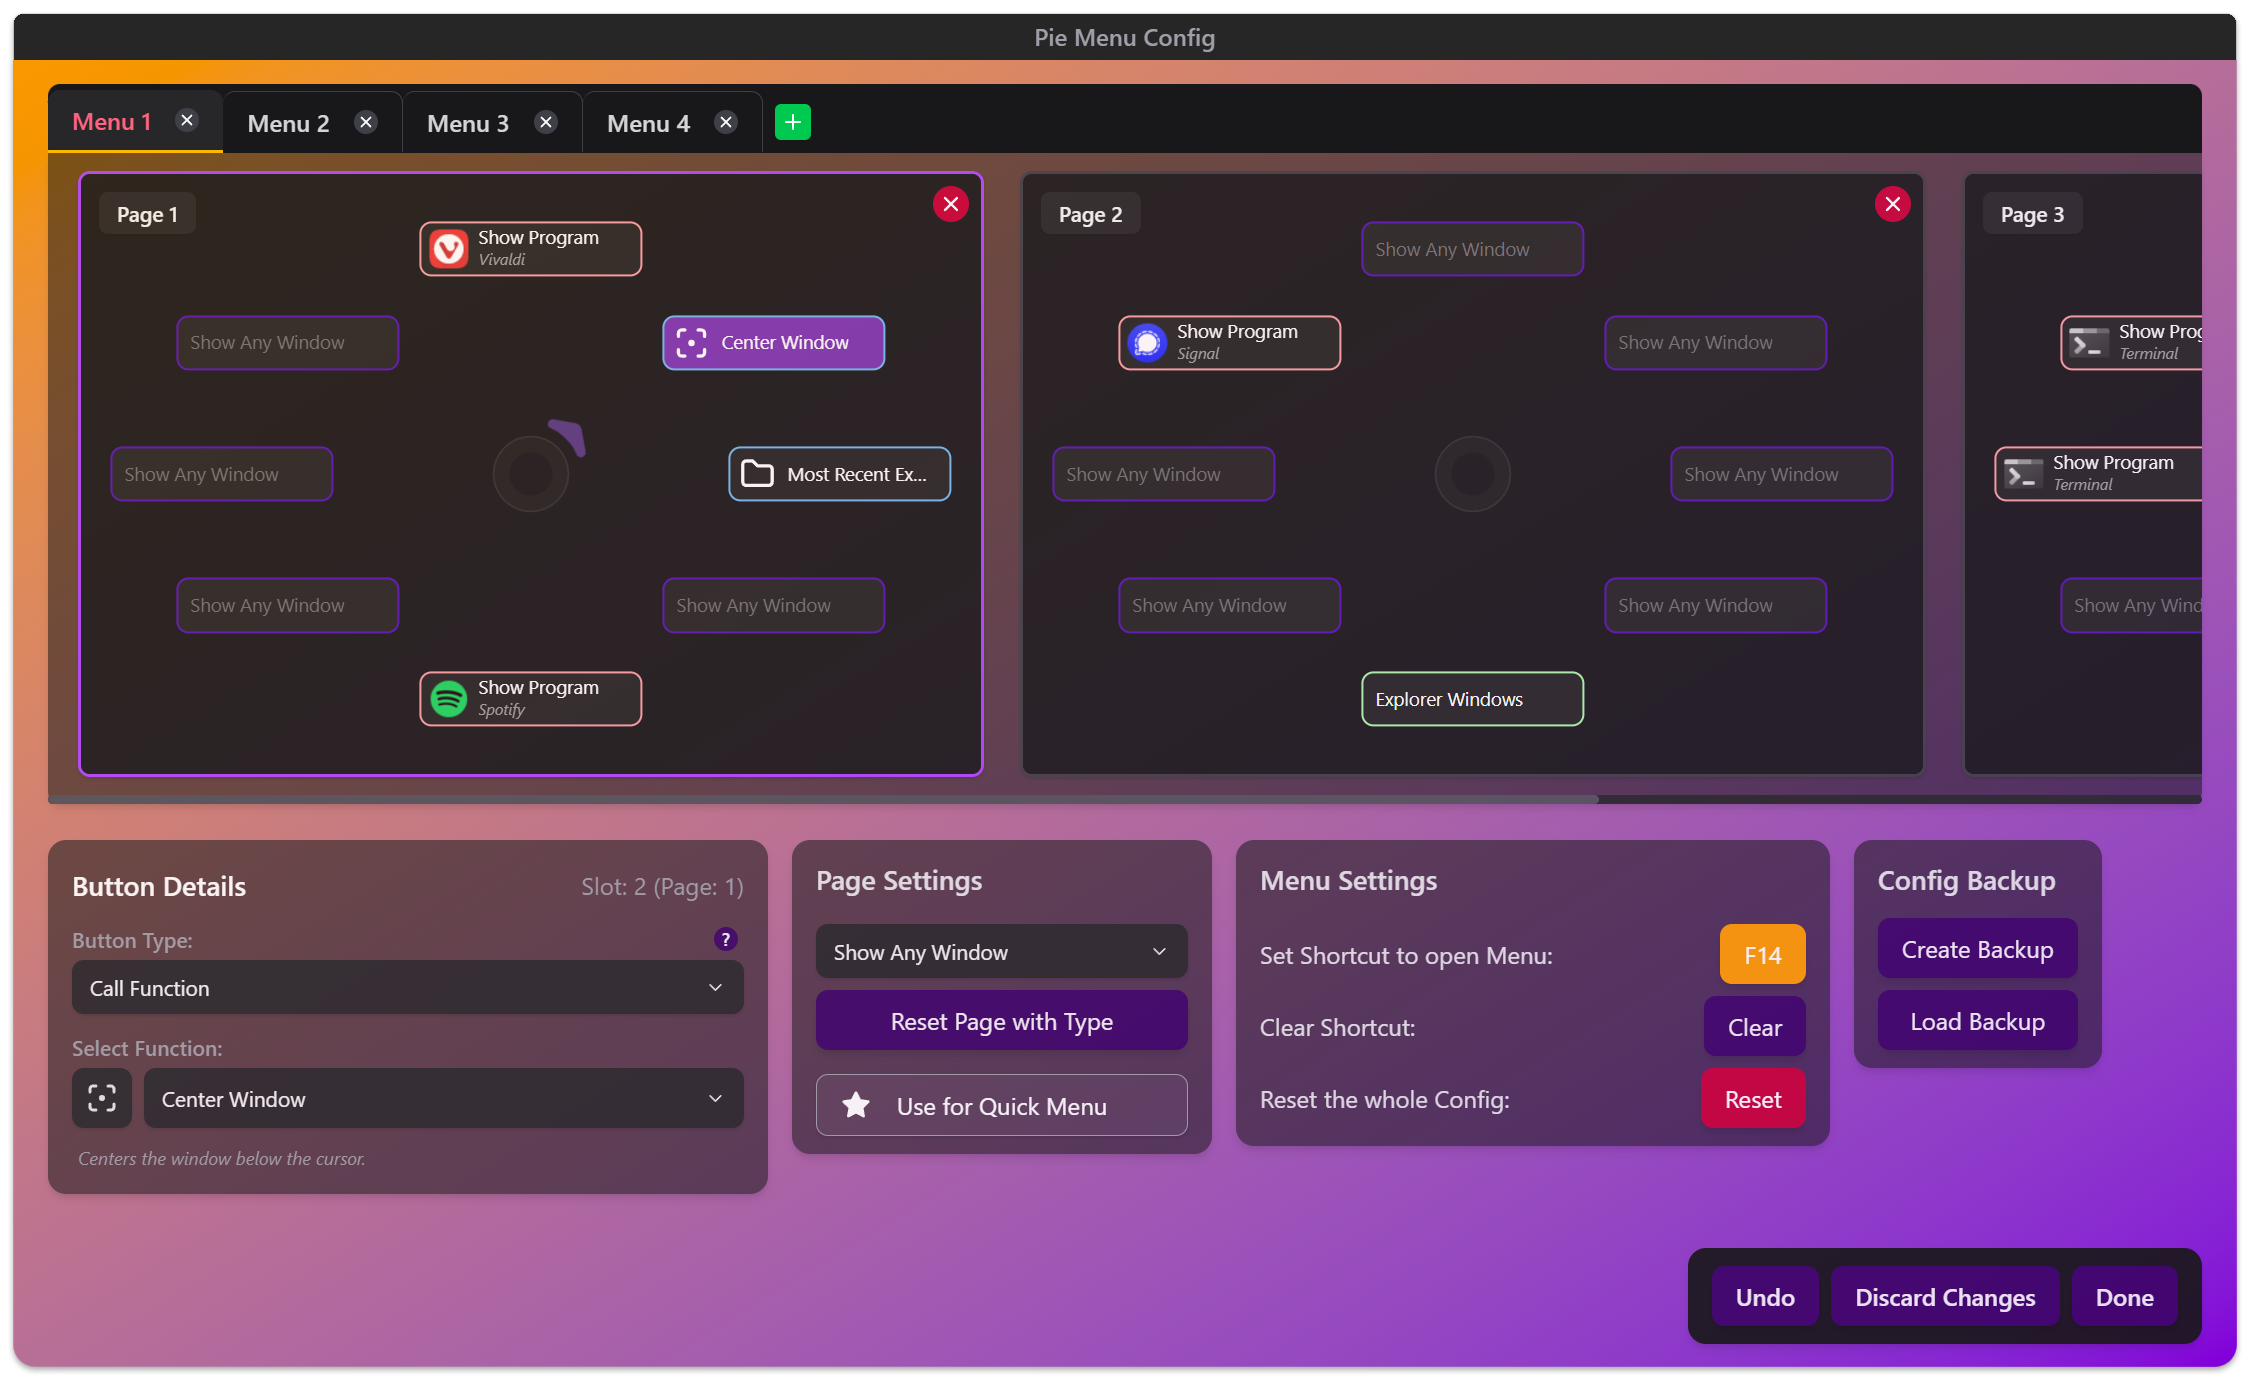
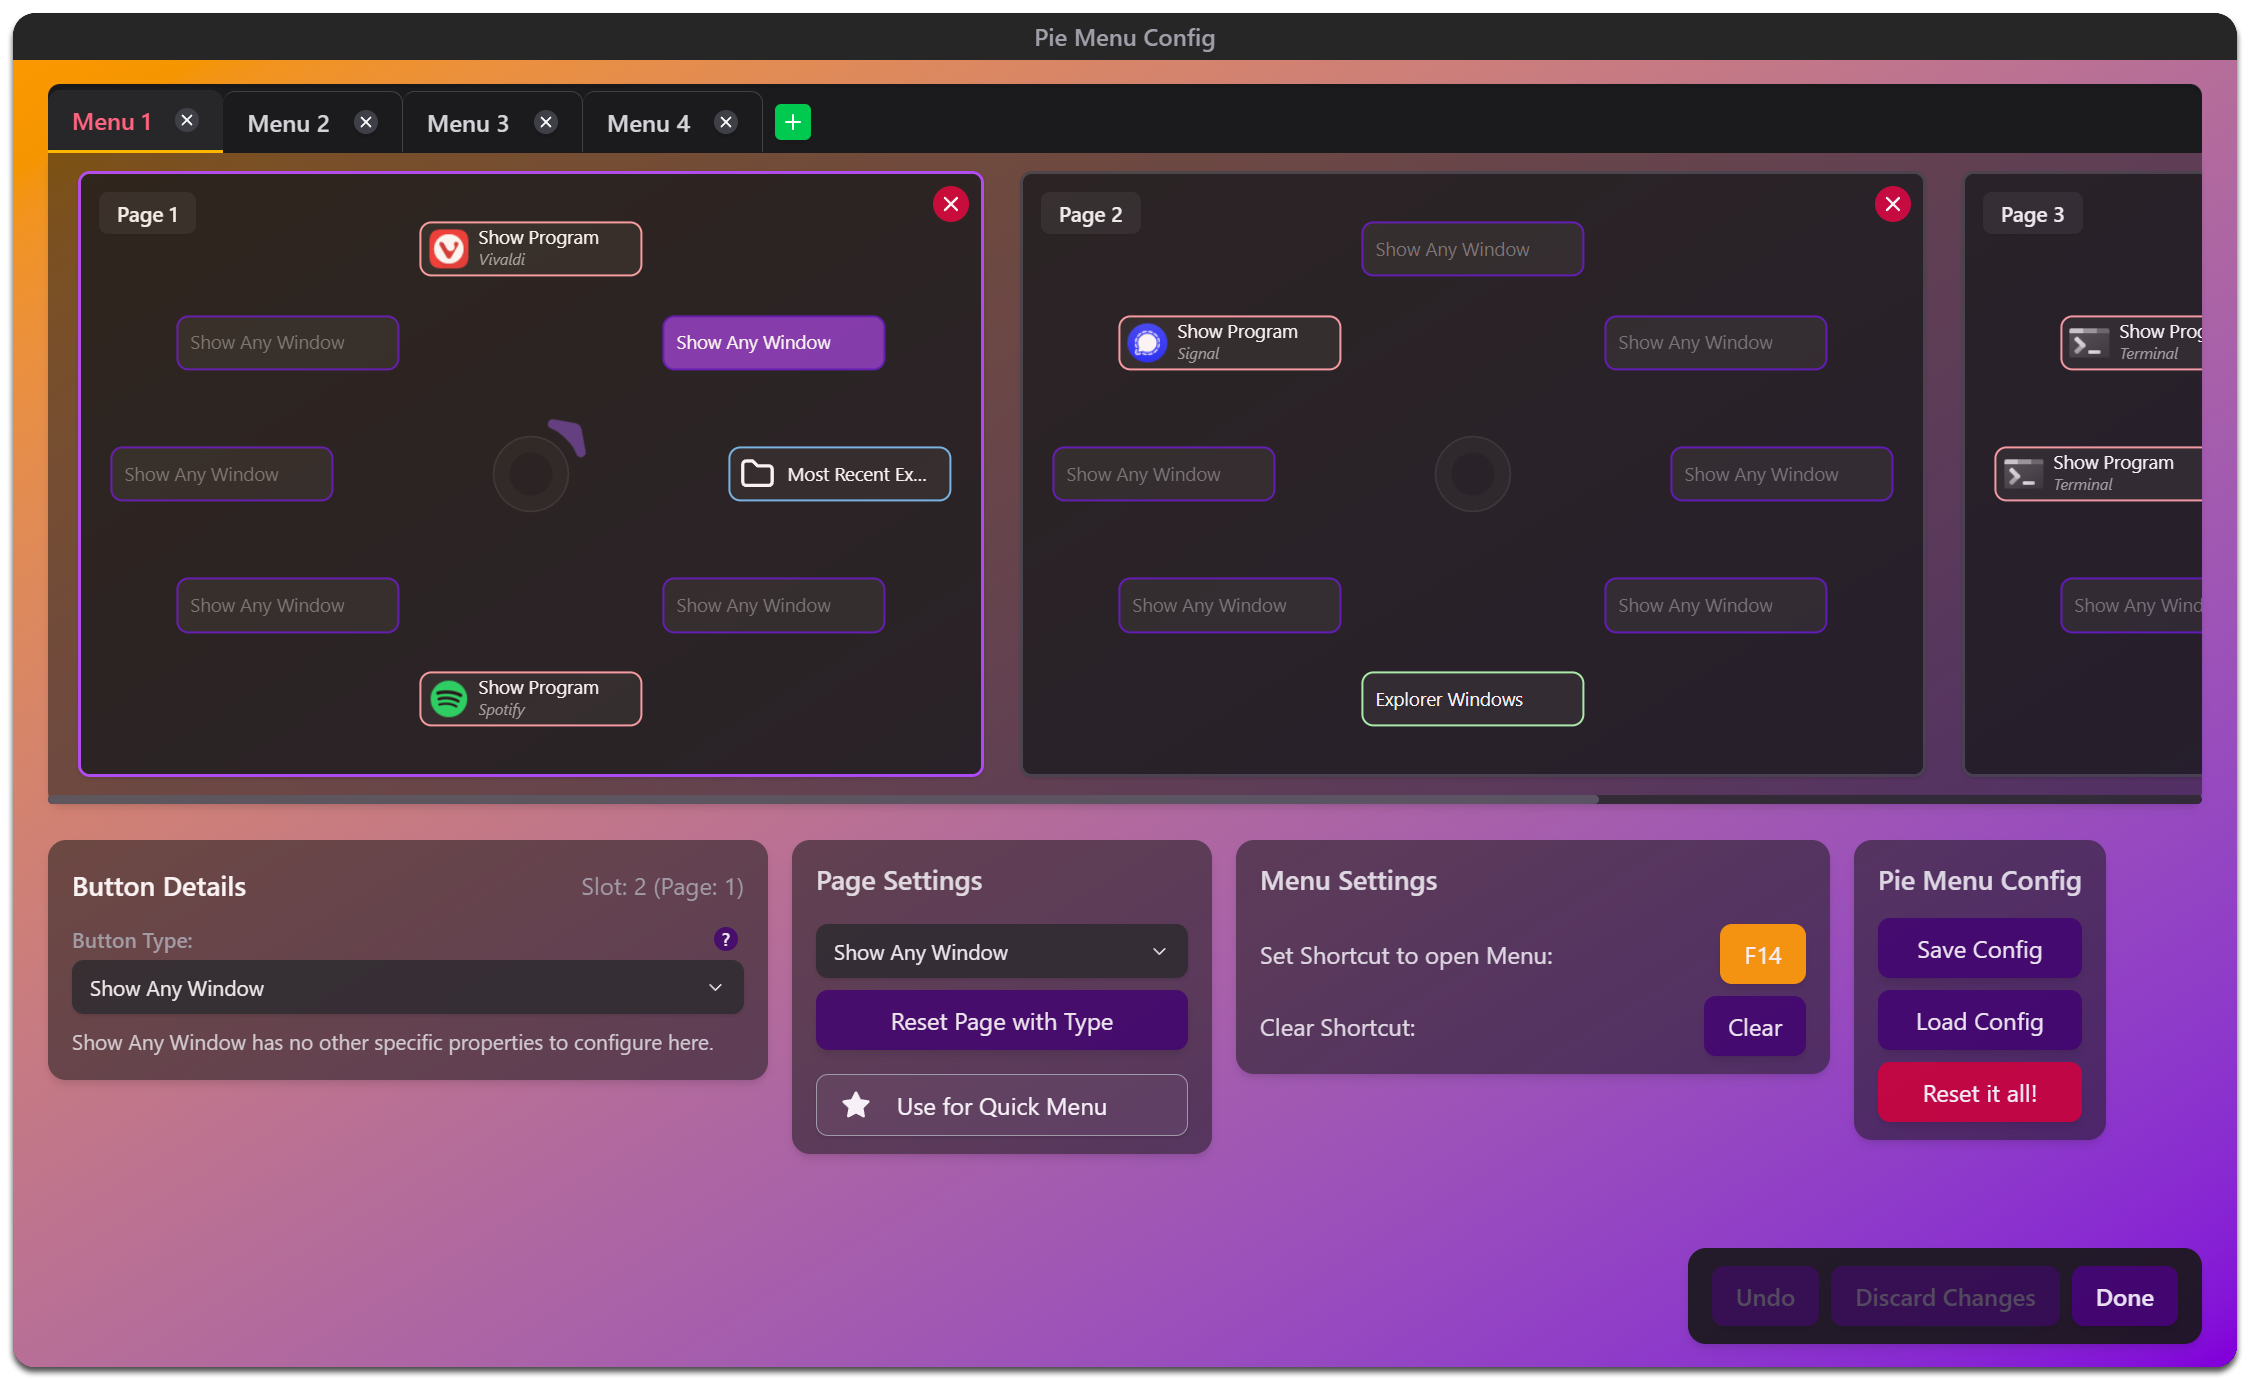
Finished README.md file. Fixed: Forwards and Backwards mouse buttons now disabled globally in the program. Fixed: Double-publish of Settings when clicking Done.

diff --git a/src/routes/piemenuConfigEditor/+page.svelte b/src/routes/piemenuConfigEditor/+page.svelte
@@ -808,9 +808,9 @@
 </script>
 
 <div class="w-full h-screen p-2">
-    <div class="w-full h-full flex flex-col bg-gradient-to-br from-amber-500 to-purple-700 rounded-2xl shadow-md">
+    <div class="w-full h-full flex flex-col bg-gradient-to-br from-amber-500 to-purple-700 rounded-t-3xl rounded-b-2xl shadow-md">
         <!-- --- Title Bar --- -->
-        <div class="title-bar relative flex items-center py-1 bg-zinc-200 dark:bg-neutral-800 rounded-t-lg border-b border-none h-8 flex-shrink-0">
+        <div class="title-bar relative flex items-center py-1 bg-zinc-200 dark:bg-neutral-800 rounded-t-2xl border-b border-none h-8 flex-shrink-0">
             <div class="w-0.5 min-w-[2px] h-full" data-tauri-drag-region="none"></div>
             <div class="absolute left-0 right-0 top-0 bottom-0 flex items-center justify-center pointer-events-none select-none">
                 <span class="font-semibold text-sm lg:text-base text-zinc-900 dark:text-zinc-400">Pie Menu Config</span>
@@ -980,19 +980,10 @@
                                             variant="primary"
                                     />
                                 </div>
-                                <div class="flex flex-row justify-between mt-2 items-center w-full">
-                                    <span class="text-zinc-700 dark:text-zinc-200">Reset the whole Config:</span>
-                                    <StandardButton
-                                            label="Reset"
-                                            variant="warning"
-                                            onClick={() => showResetAllConfirmDialog = true}
-                                            style="max-width: 120px;"
-                                    />
-                                </div>
                             </div>
                             <div class="flex flex-col items-stretch bg-zinc-200/60 dark:bg-neutral-900/60 opacity-90 rounded-xl shadow-md px-4 py-3 w-auto self-start">
                                 <h3 class="font-semibold text-lg text-zinc-900 dark:text-zinc-200 mb-3 w-full text-left">
-                                    Save/Load Config
+                                    Pie Menu Config
                                 </h3>
                                 <div class="flex flex-col items-start gap-2 w-full">
                                     <StandardButton
@@ -1006,6 +997,12 @@
                                             onClick={openFileDialog}
                                             style={`width: 100%;`}
                                             variant="primary"
+                                    />
+                                    <StandardButton
+                                            label="Reset it all!"
+                                            variant="warning"
+                                            onClick={() => showResetAllConfirmDialog = true}
+                                            style={`width: 100%;`}
                                     />
                                 </div>
                             </div>

diff --git a/src/routes/+page.svelte b/src/routes/+page.svelte
@@ -375,33 +375,6 @@
         }
     });
 
-    // Block browser back/forward triggered by mouse X1/X2 buttons
-    onMount(() => {
-        const block = (event: Event) => {
-            const button = (event as MouseEvent).button;
-            // Quick guard: ignore everything except X1/X2
-            if (button !== 3 && button !== 4) return;
-            event.preventDefault();
-            event.stopImmediatePropagation();
-        };
-
-        // Use capture + non-passive so preventDefault works before default navigation
-        const opts: AddEventListenerOptions = {capture: true, passive: false};
-        window.addEventListener('pointerdown', block, opts);
-        window.addEventListener('pointerup', block, opts);
-        window.addEventListener('mousedown', block, opts);
-        window.addEventListener('mouseup', block, opts);
-        window.addEventListener('auxclick', block, opts);
-
-        return () => {
-            window.removeEventListener('pointerdown', block, opts);
-            window.removeEventListener('pointerup', block, opts);
-            window.removeEventListener('mousedown', block, opts);
-            window.removeEventListener('mouseup', block, opts);
-            window.removeEventListener('auxclick', block, opts);
-        };
-    });
-
     onMount(async () => {
         const currentWindow = getCurrentWindow();
         await currentWindow.setSize(new LogicalSize(Number(PUBLIC_PIEMENU_SIZE_X), Number(PUBLIC_PIEMENU_SIZE_Y)));

diff --git a/src/routes/+layout.svelte b/src/routes/+layout.svelte
@@ -72,6 +72,33 @@
         }
     });
 
+    // Globally block browser back/forward triggered by mouse X1/X2 buttons
+    onMount(() => {
+        const block = (event: Event) => {
+            const button = (event as MouseEvent).button;
+            if (button !== 3 && button !== 4) return; // only X1/X2
+            event.preventDefault();
+            event.stopImmediatePropagation();
+        };
+
+        const opts: AddEventListenerOptions = { capture: true, passive: false };
+        window.addEventListener('pointerdown', block, opts);
+        window.addEventListener('pointerup', block, opts);
+        window.addEventListener('mousedown', block, opts);
+        window.addEventListener('mouseup', block, opts);
+        window.addEventListener('auxclick', block, opts);
+        logger.debug('Registered global X1/X2 back-forward mouse blocker');
+
+        return () => {
+            window.removeEventListener('pointerdown', block, opts);
+            window.removeEventListener('pointerup', block, opts);
+            window.removeEventListener('mousedown', block, opts);
+            window.removeEventListener('mouseup', block, opts);
+            window.removeEventListener('auxclick', block, opts);
+            logger.debug('Unregistered global X1/X2 back-forward mouse blocker');
+        };
+    });
+
     let {children} = $props();
     let connectionStatus = $state('Idle');
     let minDisplayTimeMs = 3000; // 3 seconds display time for success screen

diff --git a/src/routes/settings/+page.svelte b/src/routes/settings/+page.svelte
@@ -1,7 +1,7 @@
 <svelte:window on:contextmenu={(e) => e.preventDefault()}/>
 
 <script lang="ts">
-    import {onDestroy, onMount} from 'svelte';
+    import {onMount} from 'svelte';
     import {getSettings, publishSettings, type SettingsMap} from '$lib/data/settingsManager.svelte.ts';
     import {goto} from "$app/navigation";
     import {getCurrentWindow, type Window} from "@tauri-apps/api/window";
@@ -365,10 +365,6 @@
             await goto('/');
         }
     }
-
-    onDestroy(() => {
-        publishSettings(settings);
-    });
 </script>
 
 <div class="w-full h-screen p-2">

diff --git a/README.md b/README.md
@@ -84,6 +84,7 @@ Pages with eight configurable buttons each.
   from
   closed windows, this will re-assign all buttons. (Lowest indexes of menus/pages/buttons are always assigned first.)
 - Access your favorite menu directly, which you can set in the Pie Menu Configuration.
+- The _Quick Menu_ auto-closes when you click anywhere else.
 
 <p align="center">
   <img width="40%" src="assets/Revamped_QuickMenu_Preview.png" alt="Pie Menus">
@@ -91,9 +92,9 @@ Pages with eight configurable buttons each.
 
 ### Pie Menu Configuration
 
-- Create menus, add pages and assign all your buttons here. Assign keyboard shortcuts for each menu.
-- _(new!)_ Save and Load your Configuration with backup files.
-- _(new!)_ Choose one menu to be displayed in the Quick Menu.
+- Create Menus, add Pages and assign all your Buttons here. Assign keyboard shortcuts for each menu.
+- _(new!)_ Save and Load your Configurations.
+- _(new!)_ Choose one Page to be displayed in the Quick Menu.
 - _(new!)_ Quickly make all Buttons of a page the same type.
 
 <p align="center">
@@ -137,68 +138,58 @@ Note: There is no portable version of **_MightyPie Revamped_** unlike the origin
 
 ## Usage
 
-MightyPie Revamped will open to the Pie Menu Configuration by default (this can be changed in the Settings). Here you
-can
-customize your first Pie Menus and assign keyboard shortcuts to them.
+1. **Run the application.**
 
-> [!NOTE]
-> You can undo any changes you make in the Pie Menu Configuration by clicking the "Undo" button in the top left corner.
->
-> Only Setting a Shortcut and the Star button are not undoable.
+2. **Pie Menu Configuration:** MightyPie Revamped will open to the _Pie Menu Configuration Editor_ by default (this can
+   be
+   changed in the _Settings_ menu). Here you can customize your first Pie Menus and assign keyboard shortcuts to them.
+   Each
+   Menu has Pages and each Page consists of eight Buttons to configure.
 
-1. **Run the application:** The program is portable so just run MightyPie.exe.
+    - **Button Details** section:
 
+      To configure a Button, click it and set a button type and its options. Click the Question Mark to get more
+      information
+      about the selected button type.
 
-2. **Configure Hotkeys:** The settings open at the first start. Here you can configure your hotkeys. (Default are
-   _Alt+F1_ for the Primary Pie Menu and _Alt+F2_ for the Secondary Pie Menu. The hotkeys are keyboard only and some
-   restriction apply, i.e. Windows Key can't be used.
+    - **Page Settings** section:
 
-   (Be aware that many key combinations are already in use by programs, though MightyPie will suppress them. I
-   personally use AHK to map mouse buttons to keys like _F13_ and _F14_ and use those as hotkeys.)
+      To quickly set all Buttons of a Page to the same type, select that Page by clicking it (or a Button within it) and
+      use the `Reset Page with Type` button in the **Page Settings** section. Above it, you can select the button type
+      this applies from the dropdown.
 
+      One Page out of all the Pages can be starred with the `Use for Quick Menu` button. This Page will be displayed in
+      the _Quick Menu_.
 
-3. **Trigger the Pie Menu:** The Pie Menu opens on button-down. You can also hold the hotkey, hover over a button (or
-   its section) and just release for triggering a button.
+    - **Menu Settings** section:
 
+      Set and clear the shortcut for the active Menu. See the note below for more information.
 
-4. **Pie Menu:** Use the mouse to select a button in the pie menu.
-    - _Left-click_ is the normal function.
-    - _Middle-click_ on Show Window Buttons will close that window.
-    - _Right-click_ anywhere will close the Pie Menu.
-    - _Left-click_ on the Center Button of a Pie Menu triggers the "forward" mouse button by default (because I am using
-      that for opening the Pie Menu and this way I still have that functionality). You can also set it to "backward" or
-      nothing.
+    - **Pie Menu Config** section:
 
+      Save, Load or Clear the whole Pie Menu Configuration (incl. shortcuts and starred pages).
 
-5. **Special Menu:** More Windows functions and settings.
+   To close the _Pie Menu Configuration Editor_, hit the `Done` or `Discard All` button or just hit `Esc`.
 
 
-- _Middle-click_ the Center Button in any Pie Menu to open the Special Menu.
-- All the buttons have tool tips.
+3. **Ready to Go:** MightyPie Revamped runs in the background and waits for you to trigger a Pie Menu shortcut.
 
+   Pressing the shortcut once will open the Pie Menu. Hitting it again will cycle through it Pages.
 
-- the other unlabeled buttons are:
-    - **Windows Shortcuts:**
-        - Open Task Manager
-        - Open Sound Settings
-        - Open Network Settings
-        - Open Projection Settings (Windows monitor switching)
-        - Open an explorer window
+   You don't have to click a Button directly. Its clickable area is the **whole** slice that the Button is in.
 
+   Right-clicking **anywhere** or hitting `Esc` will close the Pie Menu.
 
-- **Monitor Switching:** The Monitor Switching area is turned off in the settings by default. It uses my specific
-  shortcuts set in DisplayFusion to switch screens and is probably of use for anyone else. (You can change the shortcuts
-  though.)
+   **Drag-select:** Press and hold the shortcut, then hover anywhere over the Button's slice, and release the
+   shortcut to trigger it. This triggers its left-click action with needing to actually left-click the Button.
 
+   **Pie Menu Center Button:** The ring in the center of the Pie Menu is also a button.
 
-- **MightyPie Shortcuts:**
-    - Clear / Reset the App Info Cache
-    - Re-assign all Buttons: will re-assign Show Any Window Buttons starting on the lower Pie Menu levels first. (
-      normally windows will stay on one button, once assigned)
-    - Open the Button Config: Here you can assign the functions of all buttons in all Pie Menus
-    - Open App Settings: General Settings of MightyPie (settings require a restart to take effect)
-    - Restart
-    - Quit
+   Middle-click it to open the _Quick Menu_.
+
+   The left-click action of it is configurable in the _Settings_ menu.
+
+For more info on the _Settings_ menu and _Quick Menu_ see the [Features](#features) section.
 
 > [!NOTE]
 > You can assign almost any keyboard key, combined with any modifier, as a shortcut. In theory, you could even use
@@ -237,7 +228,7 @@ of the Settings menu to open this folder directly.
 
 By default, the logging level is set to `info`. To change it, find `MightyPieRevamped.lnk` from the start menu, and in
 the properties, in the `Target` field, add
-` -- --log-level debug` (or `error`/`warn` instead of `info`) after the path.
+` -- --log-level debug` (or `warn` instead of `info`) after the path.
 
 ### Configuration Files
 
